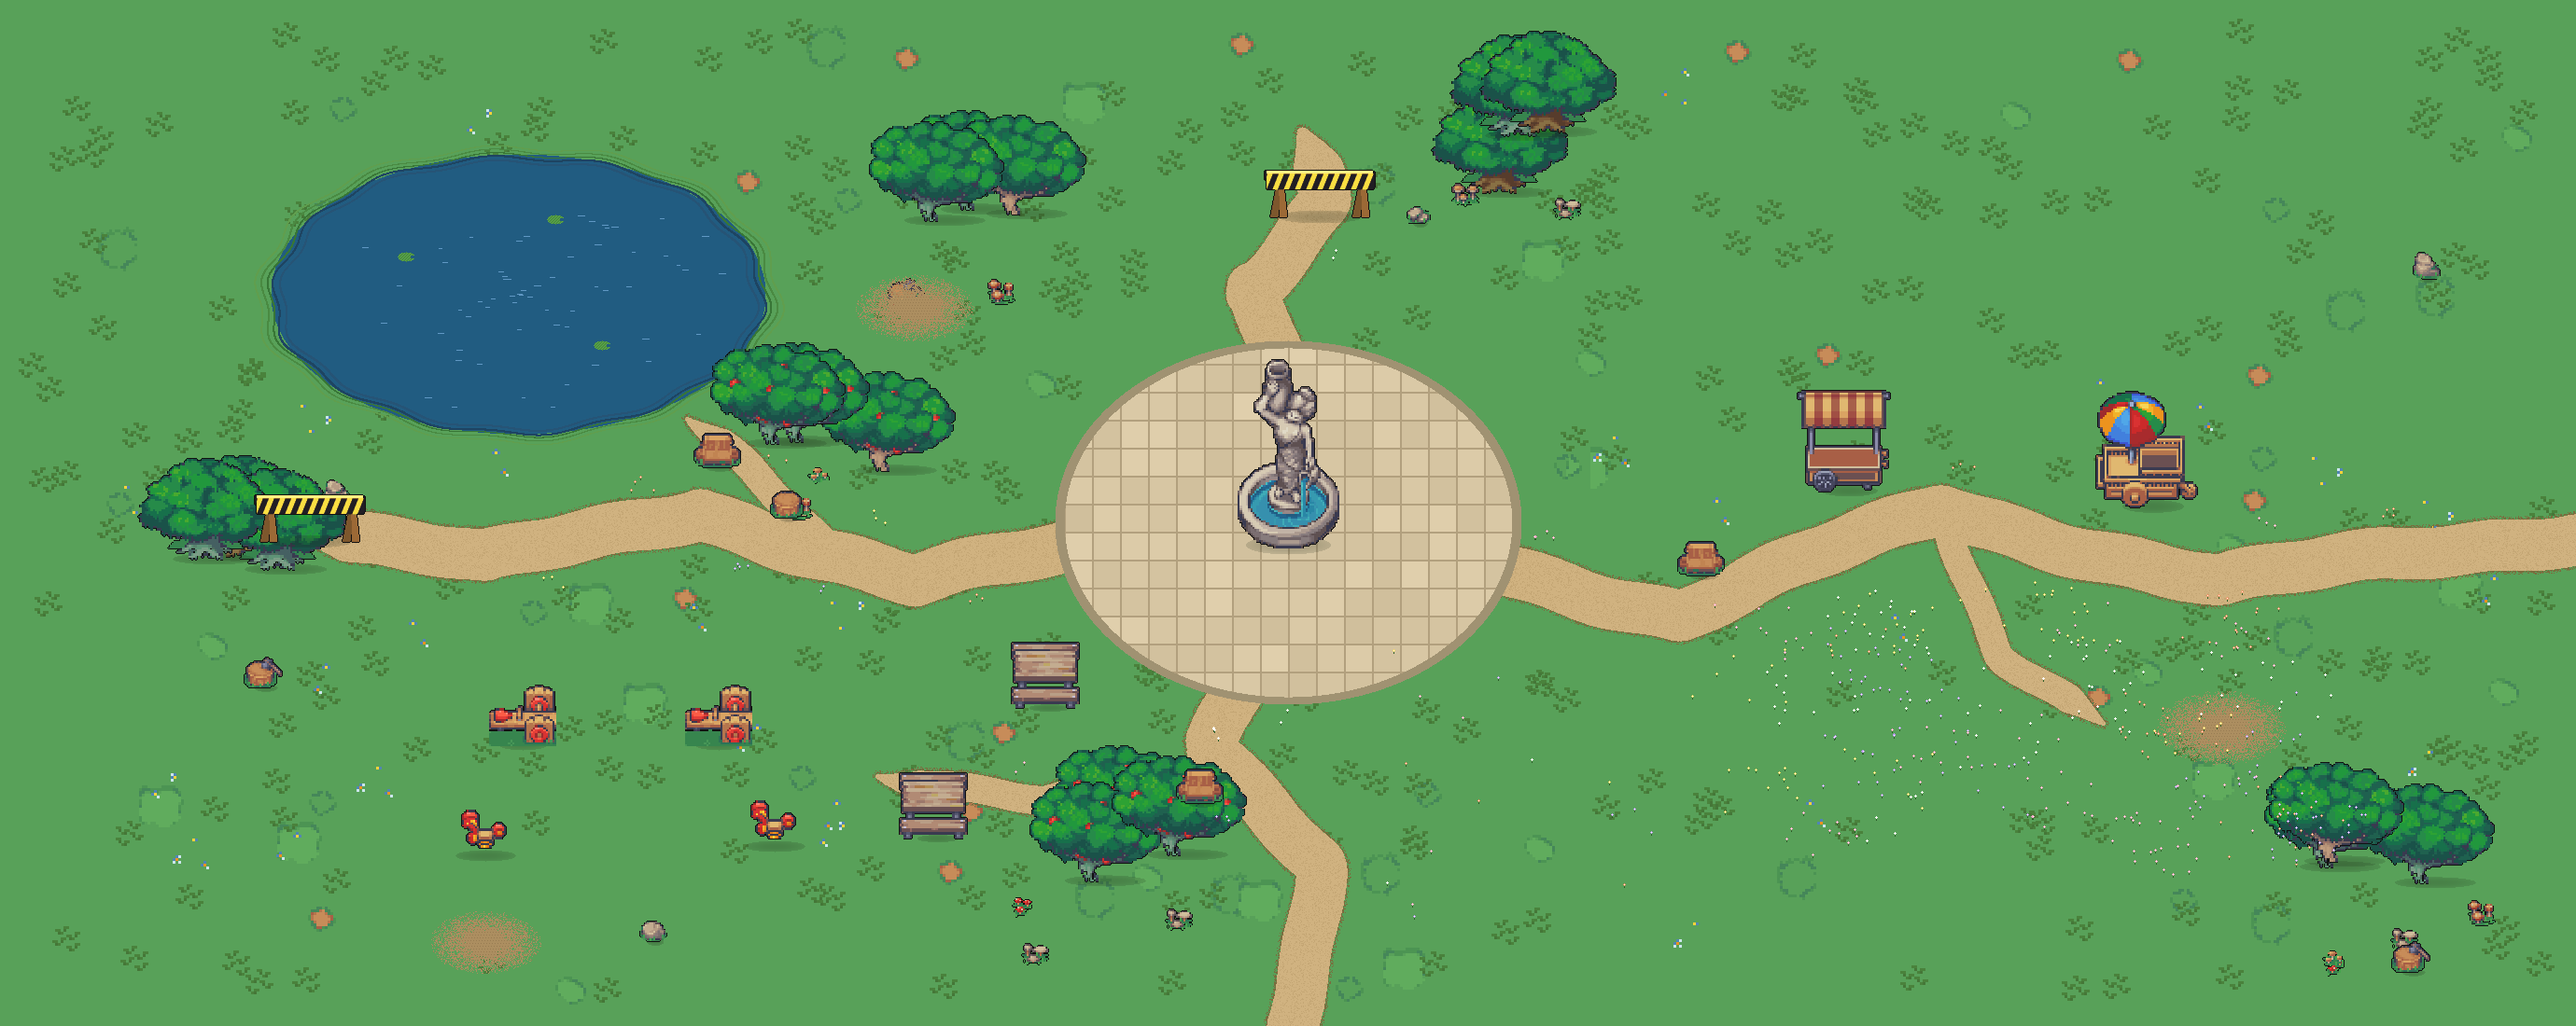
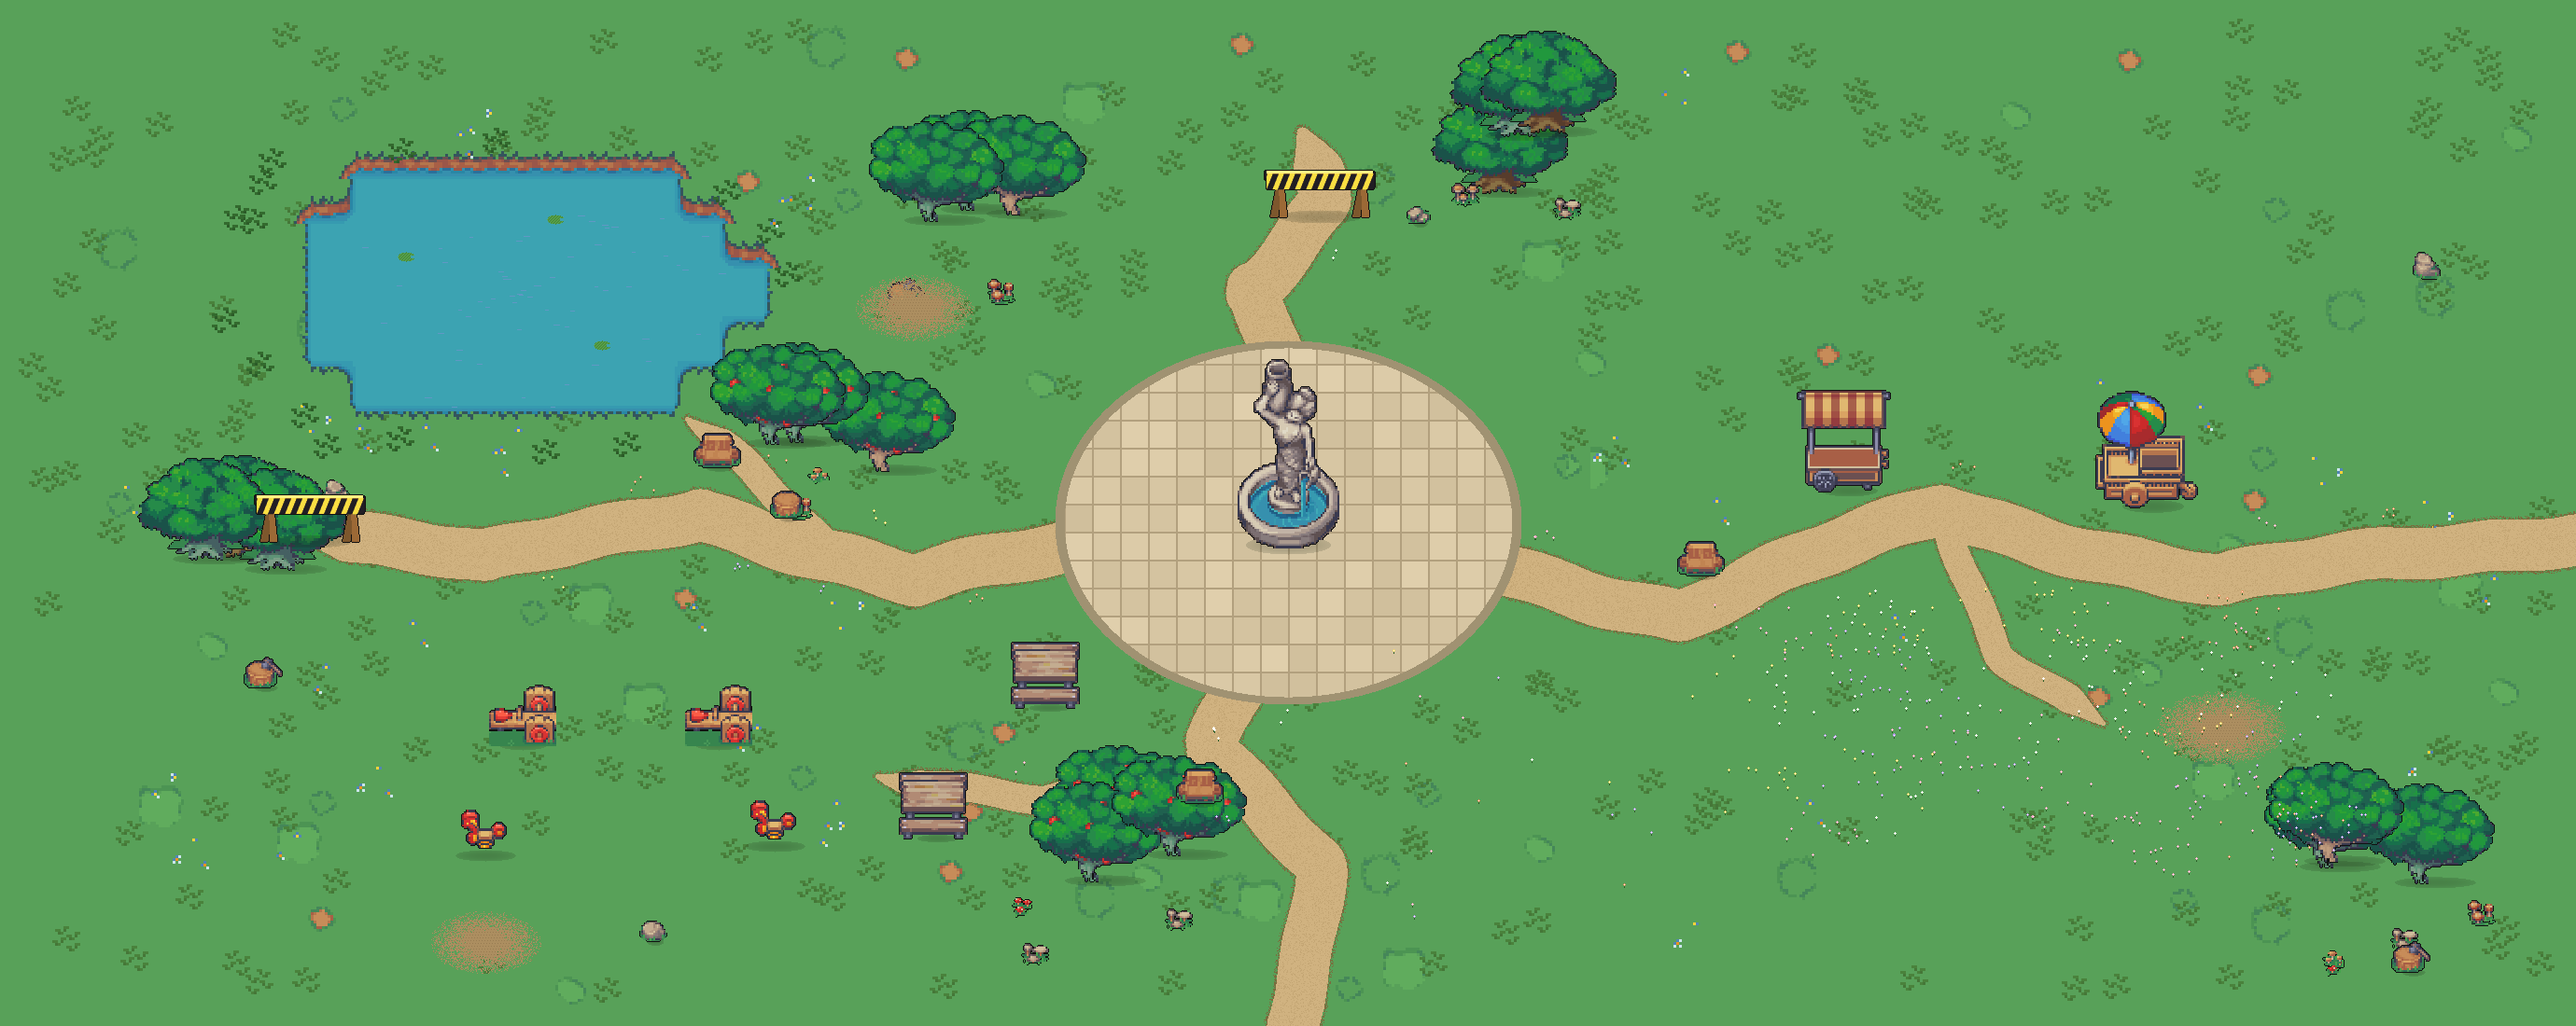
Park 2.0 round 10: THE POND IS PACK-TRUE - Grass_Water_1 contact-sheet study (23 tiles; corner-sample at (2,2); cliff tiles 5-8 ARE the south-facing shores, not strays), marching-squares layout on squircle 2.6, dry-grass pixels sample the plate's own lawn (kills the halo), shore-ring re-scatter

Changed region(s): [[0.0935, 0.1236, 0.3116, 0.4327]]

diff --git a/tools/build-park-scene.py b/tools/build-park-scene.py
@@ -468,31 +468,88 @@ def try_place(names, cx, base, **kw):
 # sides face its in-pond neighbours. Trym's reference shots, done properly.
 pcx, pcy, prx, pry = POND
 if HAVE_PACK:
-    # ⚠ TWO auto-classification attempts at the Grass_Water autotiles failed
-    # (rounds 4-5: staircase edges, dirt-bank strays) — the family's layout
-    # needs a proper contact-sheet study before it can be mapped (TODO, own
-    # session). Until then: pack water FILL + a hand-finished bank in the
-    # reference shots' language — dark under-lip, then a scalloped GRASS
-    # overhang so the lawn hangs over the water like the pack's own ponds.
-    wp = WATER_T.load()
-    for y in range(pcy - pry, pcy + pry):
-        for x in range(pcx - prx, pcx + prx):
-            if ((x - pcx) / float(prx)) ** 2 + ((y - pcy) / float(pry)) ** 2 <= 1.0:
-                put(x, y, wp[x % T, y % T])
-    for ang in range(0, 4200):
-        a = ang / 4200.0 * 2 * math.pi
-        scal = 1.0 + 0.018 * math.sin(a * 14) + 0.010 * math.sin(a * 5)
-        for rr, col in ((0.955, (38, 84, 118)), (0.985, (30, 68, 98))):
-            x = int(pcx + math.cos(a) * prx * rr * scal)
-            y = int(pcy + math.sin(a) * pry * rr * scal)
-            put(x, y, col)
-            put(x + 1, y, col)
-            put(x, y + 1, col)
-        for rr, col in ((1.005, (56, 118, 54)), (1.03, (74, 138, 66)), (1.055, (96, 158, 78))):
-            x = int(pcx + math.cos(a) * prx * rr * scal)
-            y = int(pcy + math.sin(a) * pry * rr * scal)
-            put(x, y, col)
-            put(x + 1, y, col)
+    # ✅ contact-sheet study (round 10): Grass_Water_1 is 23 tiles, NOT 91.
+    # Soft grass-overhang pieces (1-4, 12-18) cover shores where grass is
+    # north/beside the water; the DIRT-CLIFF pieces (5-8) are not strays —
+    # they ARE the south-facing shores (grass below water shows its bank
+    # face, exactly like the pack's reference ponds). Corner-sample at (2,2)
+    # etc. — midpoints missed the small notches and broke rounds 4-5.
+    CLEAN_GW = (22, 2, 4, 6, 8, 1, 3, 5, 7, 15, 17, 18, 21, 23)
+    # the family's own grass base (sampled off its full-grass tile 23)
+    _t23 = load_pack('ME_Singles_Terrains_and_Fences_48x48_Grass_Water_1_23.png').convert('RGBA')
+    _cnt = {}
+    for _yy in range(T):
+        for _xx in range(T):
+            _c = _t23.load()[_xx, _yy]
+            if _c[3]:
+                _cnt[_c[:3]] = _cnt.get(_c[:3], 0) + 1
+    GW_BASE = max(_cnt, key=_cnt.get)
+    gw = {}
+    for i in CLEAN_GW:
+        try:
+            t = load_pack('ME_Singles_Terrains_and_Fences_48x48_Grass_Water_1_%d.png' % i).convert('RGBA')
+        except Exception:
+            continue
+        p = t.load()
+
+        def wat(xx, yy, p=p):
+            r, g, b, a = p[xx, yy]
+            return a > 0 and b > g + 6
+        key = (wat(2, 2), wat(45, 2), wat(45, 45), wat(2, 45))   # NW NE SE SW
+        gw.setdefault(key, t)
+    FULL_W = gw.get((True, True, True, True), WATER_T)
+    FULL_G = gw.get((False, False, False, False))
+
+    def in_pond(x_, y_):
+        # squircle, not ellipse — round tips at 48px cells grew one-cell
+        # water fingers; exponent 2.6 keeps the ends two cells tall
+        return (abs(x_ - pcx) / float(prx)) ** 2.6 + (abs(y_ - pcy) / float(pry)) ** 2.6 <= 1.0
+
+    missing = set()
+    c0, c1 = (pcx - prx) // T - 1, (pcx + prx) // T + 1
+    r0, r1 = (pcy - pry) // T - 1, (pcy + pry) // T + 1
+    for r in range(r0, r1 + 1):
+        for c in range(c0, c1 + 1):
+            x0, y0 = c * T, r * T
+            key = (in_pond(x0, y0), in_pond(x0 + T, y0),
+                   in_pond(x0 + T, y0 + T), in_pond(x0, y0 + T))
+            if not any(key):
+                continue
+            t = gw.get(key)
+            if t is None:
+                missing.add(key)
+                t = FULL_W if sum(key) >= 3 else FULL_G
+            if t is None:
+                continue
+            if not all(key):
+                # dry-grass pixels take the plate's OWN lawn beneath — any
+                # fixed re-tint left a faint tile-grid halo around the shore
+                t = t.copy()
+                tp = t.load()
+                for yy in range(T):
+                    for xx in range(T):
+                        r0, g0, b0, a0 = tp[xx, yy]
+                        if (a0 and not (b0 > g0 + 6) and g0 >= r0 and g0 >= b0
+                                and r0 + g0 + b0 > 170
+                                and 0 <= x0 + xx < W and 0 <= y0 + yy < H):
+                            tp[xx, yy] = px[x0 + xx, y0 + yy]
+            im.alpha_composite(t, (x0, y0))
+    if missing:
+        print('  pond: no tile for keys', sorted(missing))
+    # the tiles' grass ring went down AFTER the lawn's life pass, so it reads
+    # as a flat halo — re-scatter tufts + flowers onto the dry shore band
+    srng = random.Random(31)
+    for _ in range(90):
+        sx_ = srng.randrange(pcx - prx - 60, pcx + prx + 60)
+        sy_ = srng.randrange(pcy - pry - 60, pcy + pry + 60)
+        d_ = (abs(sx_ - pcx) / float(prx)) ** 2.6 + (abs(sy_ - pcy) / float(pry)) ** 2.6
+        if not (1.06 < d_ < 1.9):
+            continue
+        if TUFT and srng.random() < 0.75:
+            im.alpha_composite(TUFT, (sx_ - 24, sy_ - 24))
+        elif FLOWER_STAMPS:
+            for fx_, fy_, col in FLOWER_STAMPS[srng.randrange(len(FLOWER_STAMPS))]:
+                put(sx_ - 24 + fx_, sy_ - 24 + fy_, col)
 # ripples + lily pads, so the pond isn't a navy slab
 prng = random.Random(88)
 for _ in range(60):
